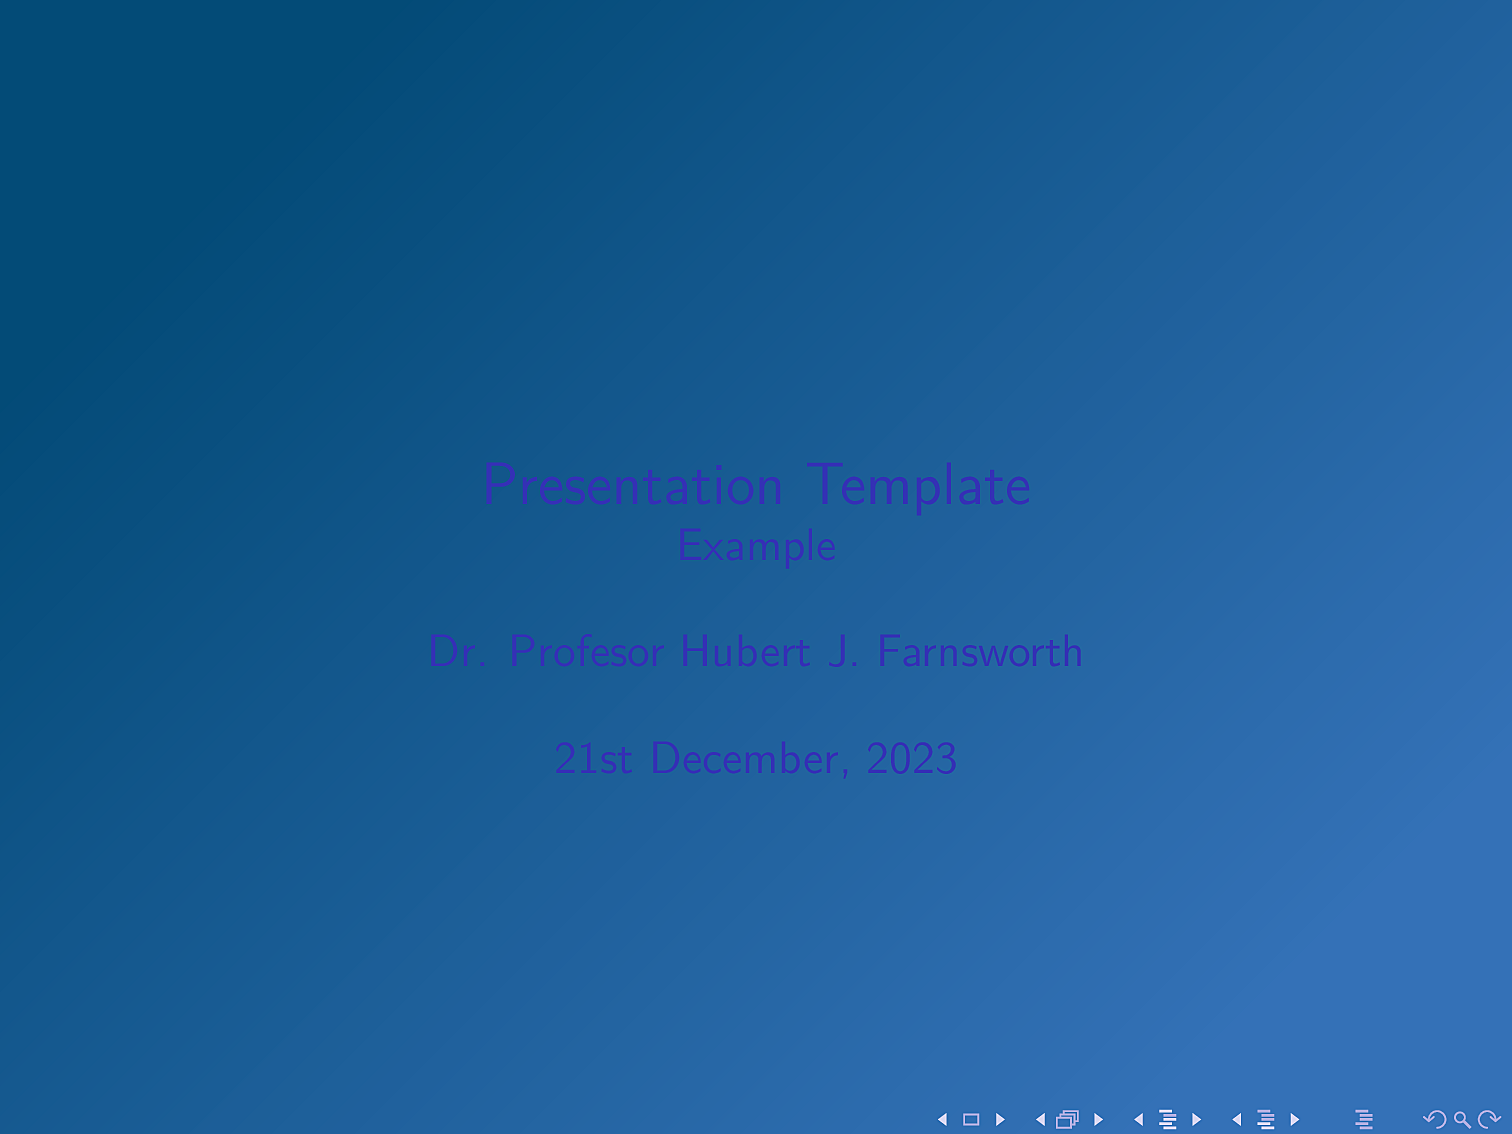
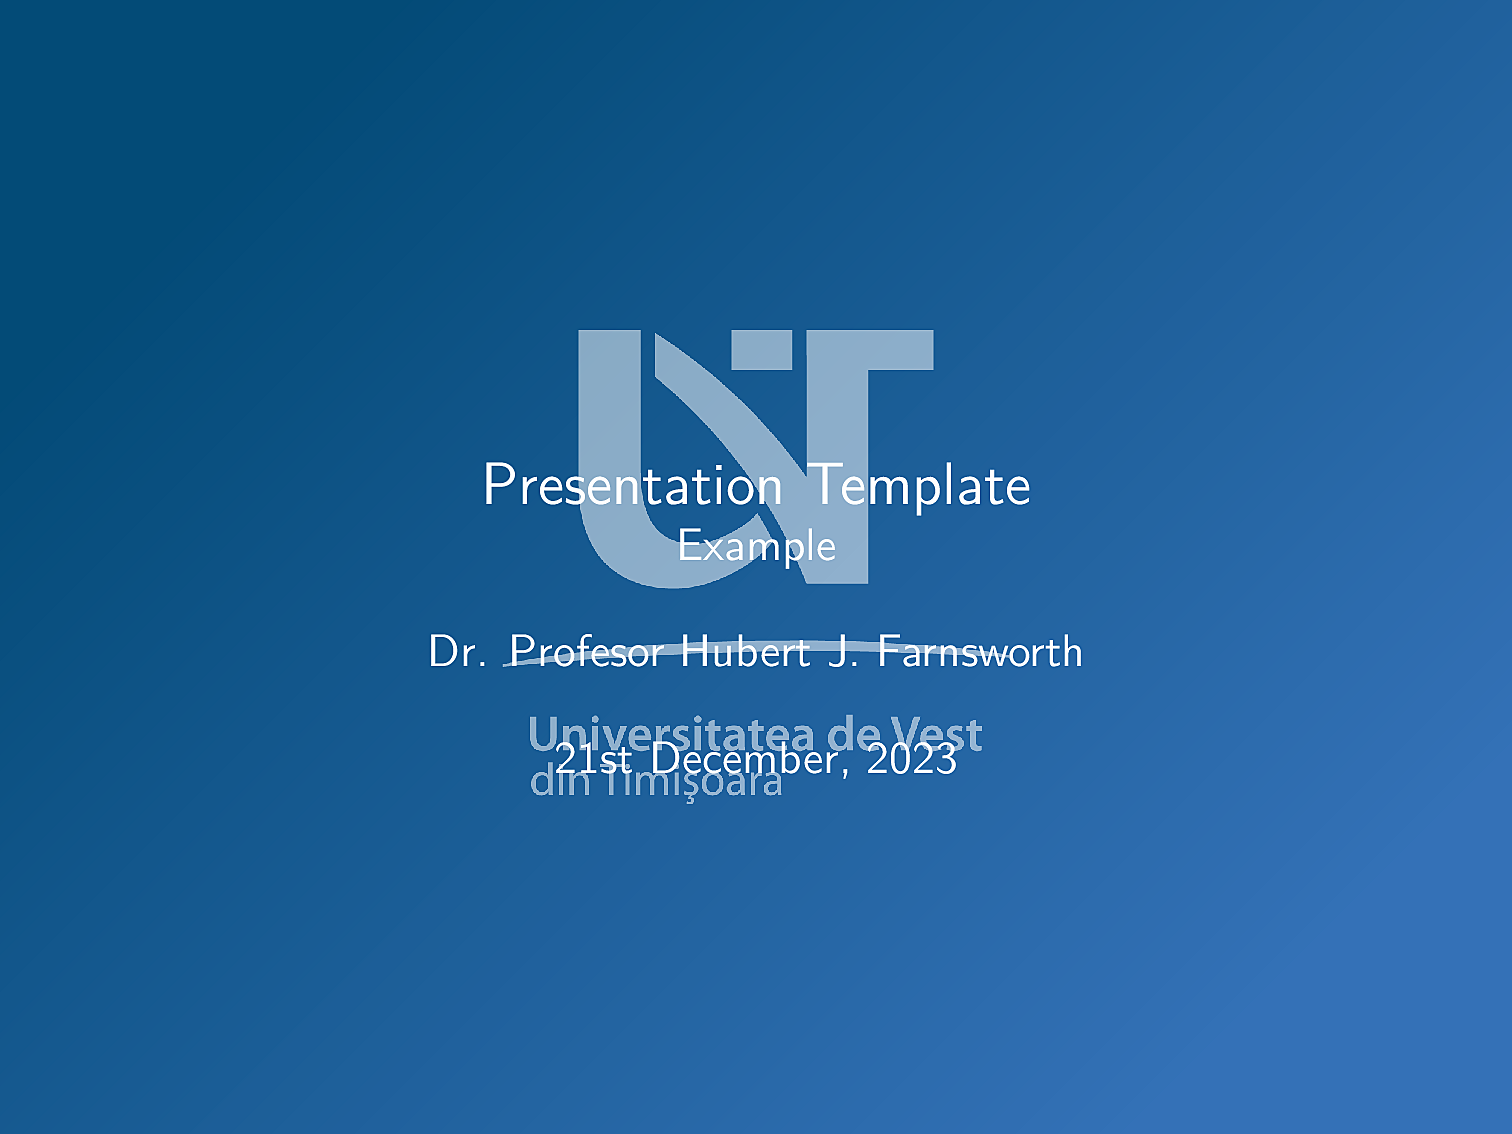
feat: add theme backgrounds

diff --git a/template.tex b/template.tex
@@ -4,6 +4,11 @@
 % <<< BEGIN theme
 
 \usetheme{uvt}
+
+% remove navigation symbols
+\beamertemplatenavigationsymbolsempty
+
+% set how hidden items are displayed: invisible / transparent / dynamic
 \setbeamercovered{transparent}
 
 % >>> END
@@ -21,7 +26,6 @@
 \begin{document}
 
 \titleframe
-
 
 \begin{frame}{Example Frame}
 \end{frame}

diff --git a/README.md b/README.md
@@ -26,7 +26,7 @@ fonts that resemble Myriad Pro better.
 
 [Full PDF](template.pdf)
 ![titlepage](assets/template-titlepage.png "Title Page")
-![slidepage](assets/template-frame.png "Slide Page")
+![slidepage](assets/template-slide.png "Slide Page")
 
 ## License
 
